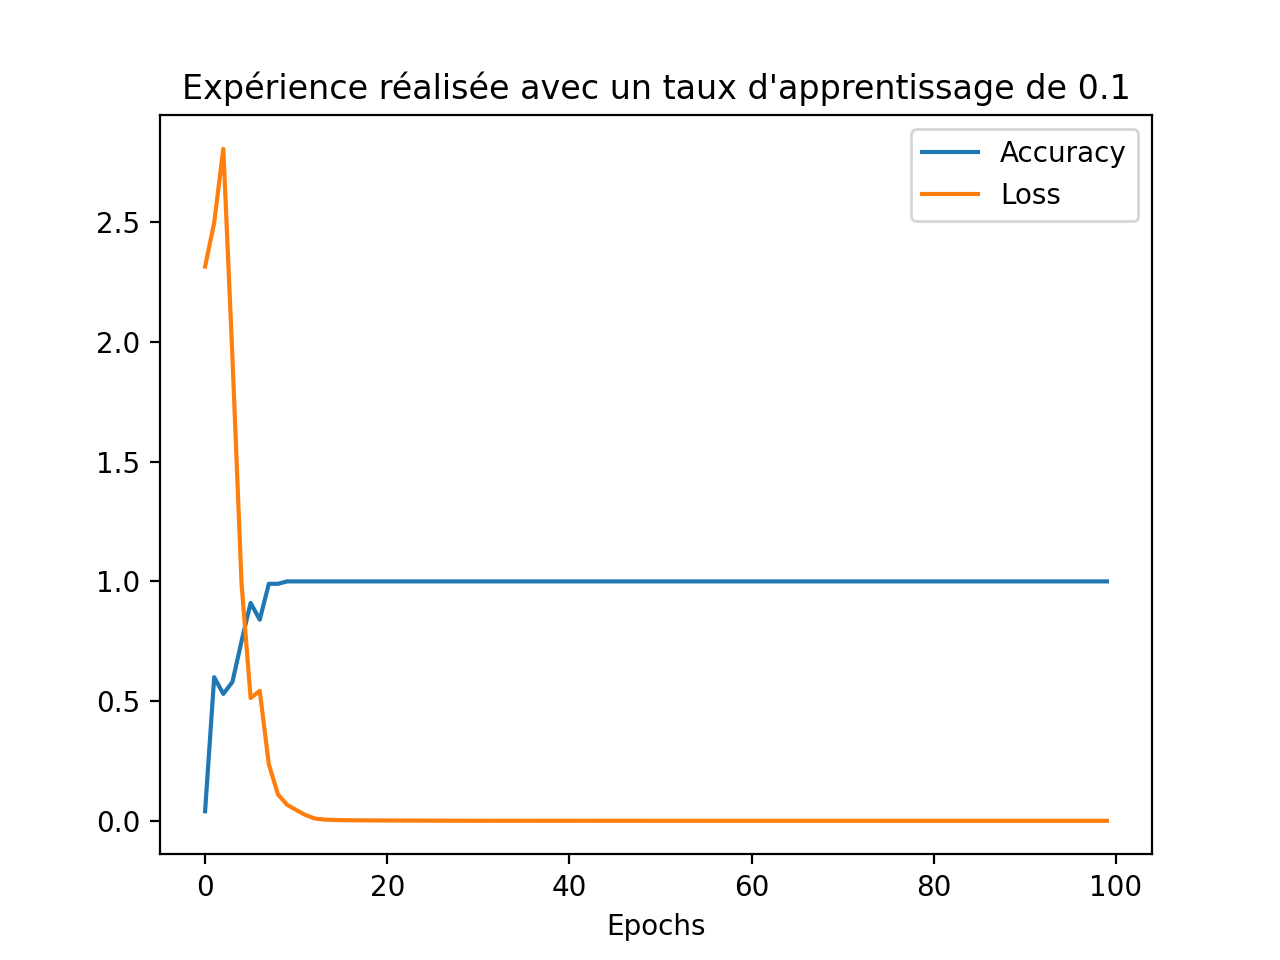
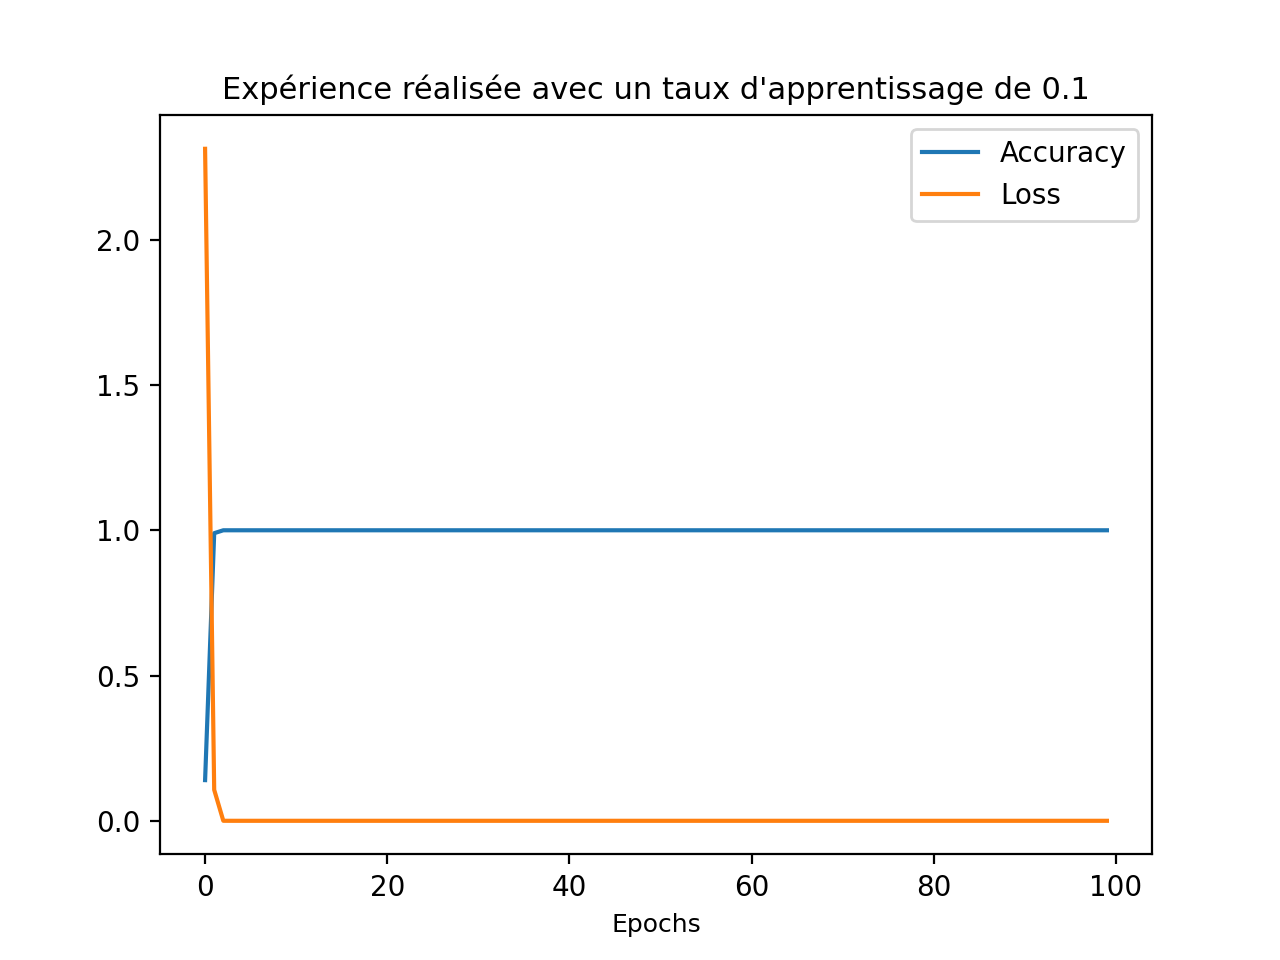
Modification du code et figures des experiences + maj du readme

diff --git a/tp1.py b/tp1.py
@@ -4,7 +4,7 @@ import torch
 import torch.nn as nn
 import matplotlib.pyplot as plt
 class Net(nn.Module):
-    def __init__(self,nins,nout): #definir les parametres, cad les couches la on va faire 2 couches linéaires 
+    def __init__(self,nins,nout): #definir les parametres, cad les couches. ici on va faire 2 couches linéaires 
         super(Net, self).__init__()
         self.nins=nins
         self.nout=nout
@@ -36,35 +36,41 @@ def train(model, data, target, nEpoch, learningRate): #la training loop (iterate
     accVector=[]
     lossVector=[]
     epochVector=[x for x in range(nEpoch)]
+    nbIterBeforeMaxAcc = 0
     idx = np.arange(nEpoch)
-    start = time.time()
-    print("Loss Accuracy")
+    
+    print("Loss    Accuracy")
     for epoch in range(nEpoch): 
         np.random.shuffle(idx)
         tx=x[idx]
         ty=y[idx]
-        optim.zero_grad() #mettre a zero tous les gradients 
+
+        # forward
         haty = model(tx) #appeler forward on a les logits  
         loss = criterion(haty,ty) #on complète le graphe par la loss
+
+        #determination et affichage accuracy
         acc = test(model, tx ,ty) #data, target
-        print(str(loss.item())+" "+str(acc))
+        print(f"{loss.item():.4f}  {acc}")
+
+        #recupération de la loss et de l'accuracy pour affichage
         lossVector.append(loss.item())
         accVector.append(acc)
+
+        #backward
+        optim.zero_grad() #mettre a zero tous les gradients 
         loss.backward() #la backpropagation 
         optim.step() #derniere etape modification des théta
-    #temps
-    end = time.time()
-    print("Run time: %f s" % (end - start))  
-    #traçage des graphes
-    plt.plot(epochVector, accVector, label="Accuracy")
-    plt.plot(epochVector, lossVector, label="Loss")
-    plt.legend(loc="upper right")
-    plt.xlabel('Epochs')
-    plt.title("Expérience réalisée avec un taux d'apprentissage de "+str(learningRate))
-    plt.show()
 
-def genData(n, nsamps):  #juste generation des données selon deux gaussiènes 
-    n0 = int(nsamps*0.8) #*prior0)
+        if acc < 1.0:
+            nbIterBeforeMaxAcc += 1
+    
+     
+    return epochVector, accVector, lossVector, nbIterBeforeMaxAcc
+
+
+def genData(n, nsamps):  #generation des données selon deux gaussiennes 
+    n0 = int(nsamps*0.8)
     x =  np.random.uniform(size=(n,n))
     y= np.random.uniform(size=(n,n))
   
@@ -76,17 +82,50 @@ def genData(n, nsamps):  #juste generation des données selon deux gaussiènes
 
 
 def toytest(): #expérience
-    print("Début de l'expérience...")
-    model = Net(100,10)
-    x,y=genData(100, 500)
+    lrs = [0.001, 0.01, 0.1, 1.0]
     nEpoch = 100
-    lr=0.001
-    print("Données pour l'expérience:\nx y")
-    print(str(x)+" "+str(y))
+    runTimes = []
+    nbEpochBeforeMaxAcc = []
+    nbOfExperiences = 4
 
-    train(model, x, y, nEpoch, lr)
+    x,y=genData(100, 500)
 
-    print("Fin de l'expérience.")
+    for i in range(nbOfExperiences):
+        print(f"Début de l'expérience {i+1}...")
+        model = Net(100,10)
+        
+        print("Données pour l'expérience:")
+        print(f"x:   {x} \ny:   {y}")
+        start = time.time()
+        epochVector, accVector, lossVector, nbIter = train(model, x, y, nEpoch, lrs[i])
+        end = time.time()
+        runTimes.append(end - start)
+        nbEpochBeforeMaxAcc.append(nbIter)
+        print("Temps d'apprentissage d'environ: %f s" % runTimes[-1])
+        print(f"Nombre d'epochs pour avoir une précision de 100%: {nbIter}")
+
+        #traçage des graphes
+        plt.plot(epochVector, accVector, label="Accuracy")
+        plt.plot(epochVector, lossVector, label="Loss")
+        plt.legend(loc="upper right")
+        plt.xlabel('Epochs', fontsize=9)
+        plt.title(f"Expérience réalisée avec un taux d'apprentissage de {lrs[i]}", fontsize= 11)
+        plt.show()
+        print(f"Fin de l'expérience {i+1}.\n")
+    plt.subplot(3, 1, 1)
+    plt.plot([1, 2, 3, 4], runTimes, label="Temps d'apprentissage")
+    plt.legend(loc="upper right", prop={'size': 9})
+
+    plt.ylabel("Temps d'apprentissage en s", fontsize=8)
+    plt.title("Évolution du temps d'apprentissage entre les expériences", fontsize=11)
+
+    plt.subplot(3, 1, 3)
+    plt.plot([1, 2, 3, 4], nbEpochBeforeMaxAcc, label=f"Nombre d'epochs avant {100}% de précision", color='r')
+    plt.legend(loc="upper right", fontsize= 9)
+    plt.xlabel("n° d'expérience", fontsize= 9)
+    plt.ylabel("Nombre d'epochs", fontsize= 8)
+    plt.title("Évolution du nombre d'epochs necessaire entre les expériences", fontsize= 11)
+    plt.show()
 
 if __name__ == "__main__":
     toytest()

diff --git a/README.md b/README.md
@@ -2,28 +2,61 @@
 
 # Explication détaillée du code :
 
+## Première partie: Definition de la classe Net
+
 On commence par définir notre classe Net du module NeuralNet de Pytorch, qui représente le réseau de neuronnes.
 
-Pour ceci, on a la fonction _init()_ qui nous permet d'initialiser les hyperparamètres de notre modèle, à savoir le nombre des entrées et sorties. Dans notre cas, on a deux couches cachées linéaires.
+Pour que cette classe soit bien definie, vu qu'on veut faire un model de feed-forward, deux fonctions sont nécessaires:
 
-La fonction _forward()_ décrit comment l'information se propage dans le réseau de neuronnes. Après la première couche, on applique une fonction d'activation linéaire _tanh()_ ; c'est une fonction principalement utilisée pour la classification entre deux classes.
+    -  La fonction _init()_ qui nous permet d'initialiser les hyperparamètres de notre modèle, à savoir le nombre des entrées et sorties.
+    Dans notre cas, on a deux couches cachées linéaires.
 
-Les fonctions _train()_ et _test()_ sont deux fonctions utilisées réciproquement pour entrainer et évaluer le modèle:
+    - La fonction _forward()_ qui décrit comment l'information se propage dans le réseau de neuronnes. Après la première couche, on applique
+    une fonction d'activation linéaire _tanh()_ (c'est une fonction principalement utilisée pour la classification entre deux classes.)
+## Deuxième partie: Entrainement et évaluation du modèle
+Les fonctions _train()_ et _test()_ sont deux fonctions utilisées respectivement pour entrainer et évaluer le modèle.
 
-    La fonction train() prend comme paramètres le nombre d'époques c'est à dire le nombre d'itération et le learning rate qu'on verra par le suite son impact sur les résultats et surtout sur le calcul de la perte (loss function).
-    Pendant cette phase, on prend comme algorithme d'optimisation. En effet l'optimiseur est utilisé pour diminuer les taux d'erreur lors de la formation des réseaux neuronaux. L'optimiseur Adam est défini comme un processus utilisé comme optimiseur de remplacement pour la descente de gradient. Il est très efficace pour les problèmes de grande taille qui comprennent beaucoup de données.On utilise comme critère de perte l'entropie croisée qui calcule la perte d'entrepie entre la cible et la valeur de sortie (prédite)
+    - La fonction _train()_: Elle prend comme paramètres: 
+        - le model utilisé pour réaliser l'apprentissage,
+        - les données sur lesquelles le système va apprendre,
+        - la target qui est la cible, 
+        - le nombre d'epochs c'est à dire le nombre d'itérations,
+        - le learning rate qu'on verra par le suite son impact sur les résultats et surtout sur le calcul de la perte (loss function).
+    Pendant cette phase d'entrainement, on prend un optimiseur qui est utilisé pour diminuer les taux d'erreur lors de la formation des
+    réseaux de neuronnes. L'optimiseur Adam est défini comme un processus utilisé comme optimiseur de remplacement pour la descente de 
+    gradient. Il est très efficace pour les problèmes de grande taille qui comprennent beaucoup de données. On utilise comme critère de
+    perte l'entropie croisée qui calcule la perte d'entrepie entre la cible et la valeur de sortie (prédite)
 
-    On convertit nos entrées et cibles en tenseur puis pour chaque itération on fait un shuffle de nos données; généralement on fait du shuffle pour s'assurer que notre modèle overfit moins .On calcule ensuite l'accuracy et la perte en faisant appel à la fonction _test()_ puis on fait de la backpropagation pour mettre à jour les poids.
+    - On convertit nos entrées et cibles en tenseur avant d'entrainer le model sur le nombre d'epochs. 
+    - À chaque epoch: on fait un shuffle de nos données pour s'assurer que notre modèle ne "voit" pas les données toujours dans le même sens
+    (permet notamment de diminuer le risque de surapprentissage). On calcule ensuite la perte et la precision à l'epoch courante. La 
+    precision est obtenue par évaluation du modèle sur les données de test. Enfin on fait de l'étape de retropropagation pour mettre à jour
+    les poids associés à chaque donnée.
 
-La fonction _gendata()_ a comme objectif la génération des données; ici on choisit comme entrée f(x,y)=log(x+y) et comme cible y2.
-x et y étant des valeurs aléatoires générées grace à la distribution uniforme.
-et y2 une matrice de 1 et 0. (On suppose qu'on a une classification de deux classes).
+## Troisième partie: Génération des données
+La fonction _gendata()_ a comme objectif la génération des données. Ici on choisit comme entrée _f(x,y)=log(x+y)_ et comme cible y2 qui est un vecteur de 0 et de 1 (2 classes supposées). Les paramètres x et y de la fonction f sont générés de façon uniforme et aléatoire.
+La fonction _gendata()_ renvoie alors f appliquée à x et y, et y2
 
-Dans le main, on fait appel à _toytest()_ la fonction qui permet l'entrainement du modèle :
+## Quatrième partie: Expérience
+Dans le main, on fait appel à _toytest()_. Dans cette fonction, on réalise les différentes expériences. On définit les 
+hyperparamètres du modèle et on fait l'entrainement du modèle
 
-    - On construit un réseau avec la classe Net
-    - On modifie le *learning_rate*
-    - On finit par avoir un graphe qui montre les courbes de la perte et de l'accuracy
+# Résultats
+![image](Experience_1.png)
+![image](Experience_2.png)
+![image](Experience_3.png)
+![image](Experience_4.png)
+![image](Runtime&NbEpoch.png)
 
-On remarque qu'en changeant le learning rate, la vitesse d'apprentissage changent.
-En effet, plus lr est petit plus la courbe du loss prend du temps à décroitre.
+# Analyse
+Dans les 4 expériences réalisées, le modèle de feed-forward entrainé arrive toujours, ou presque à apprendre notre fonction. En effet, la
+précision du modèle croit toujours et arrive à 1 lors des 3 expériences, sauf pour un taux d'apprentissage de 0.001 où on arrive très peu de
+fois à 0.99. Cependant, en repetant l'expérience avec le taux d'apprentissage constant égale à 0.001, on arrive à une precision de 100%. 
+On a choisit de garder les mêmes données entre les expériences.
+On s'est amusés à chronométrer le temps que prend notre modèle pour apprendre la fonction f à chaque expérience, et les temps sont variables.
+On a constaté qu'entre la 1ère (lr=0.001) et la 2ème expérience (lr=0.01), ce temps a diminué mais après ne fait qu'augmenter (on a répété 
+l'expérience plusieurs fois et c'est quasiment toujours ainsi que cela se présente).
+Aussi, on a mesuré le nombre d'epochs que necessite le modèle pour atteindre le maximum de précision. Celui décroit généralement, mais il
+augmente quasiment toujours quand on passe à un taux d'apprentissage de 1.0.
+Une remarque intéréssante est que plus le taux d'apprentissage est grand, moins la précision augmente rapidement entre les epochs, sauf 
+quelques fois avec un taux d'apprentissage de 1.0 où on peut avoir quelques perturbations.
